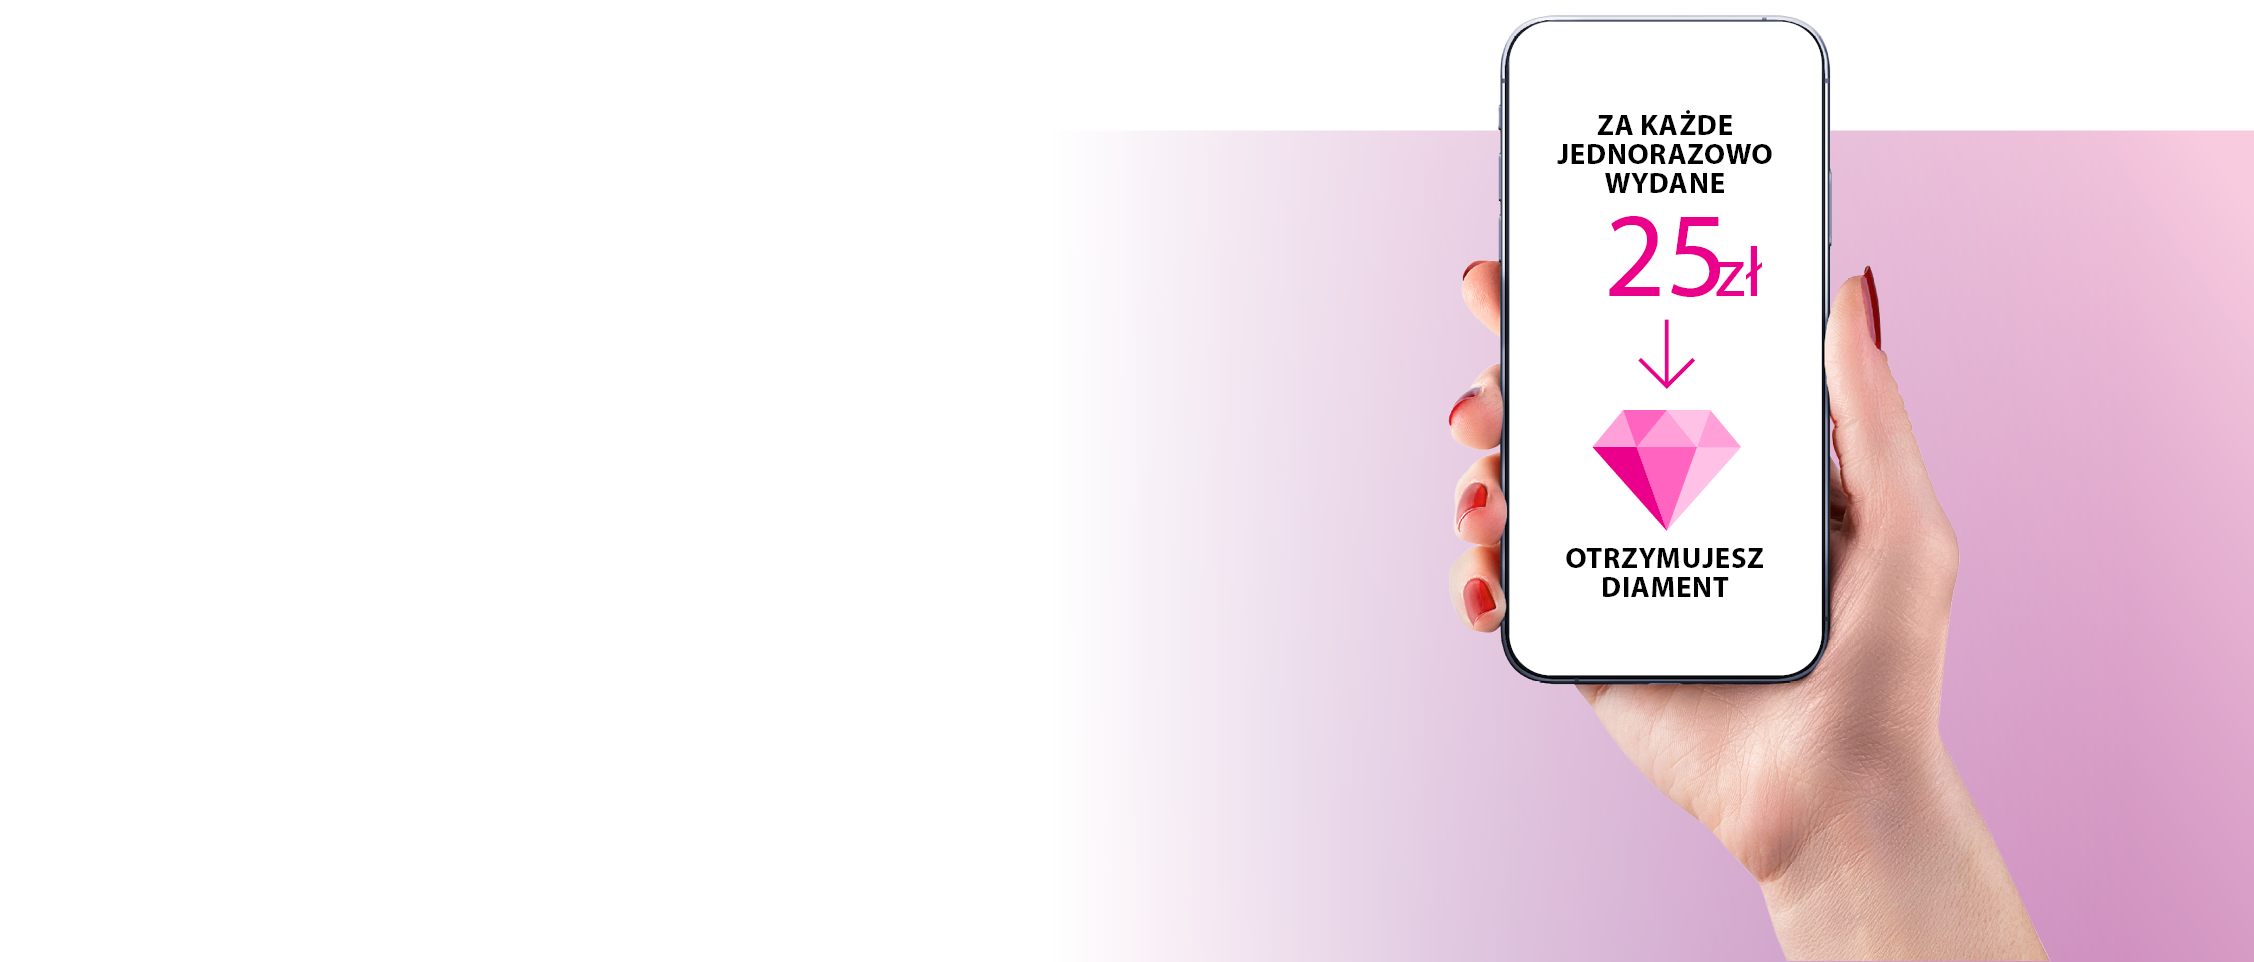
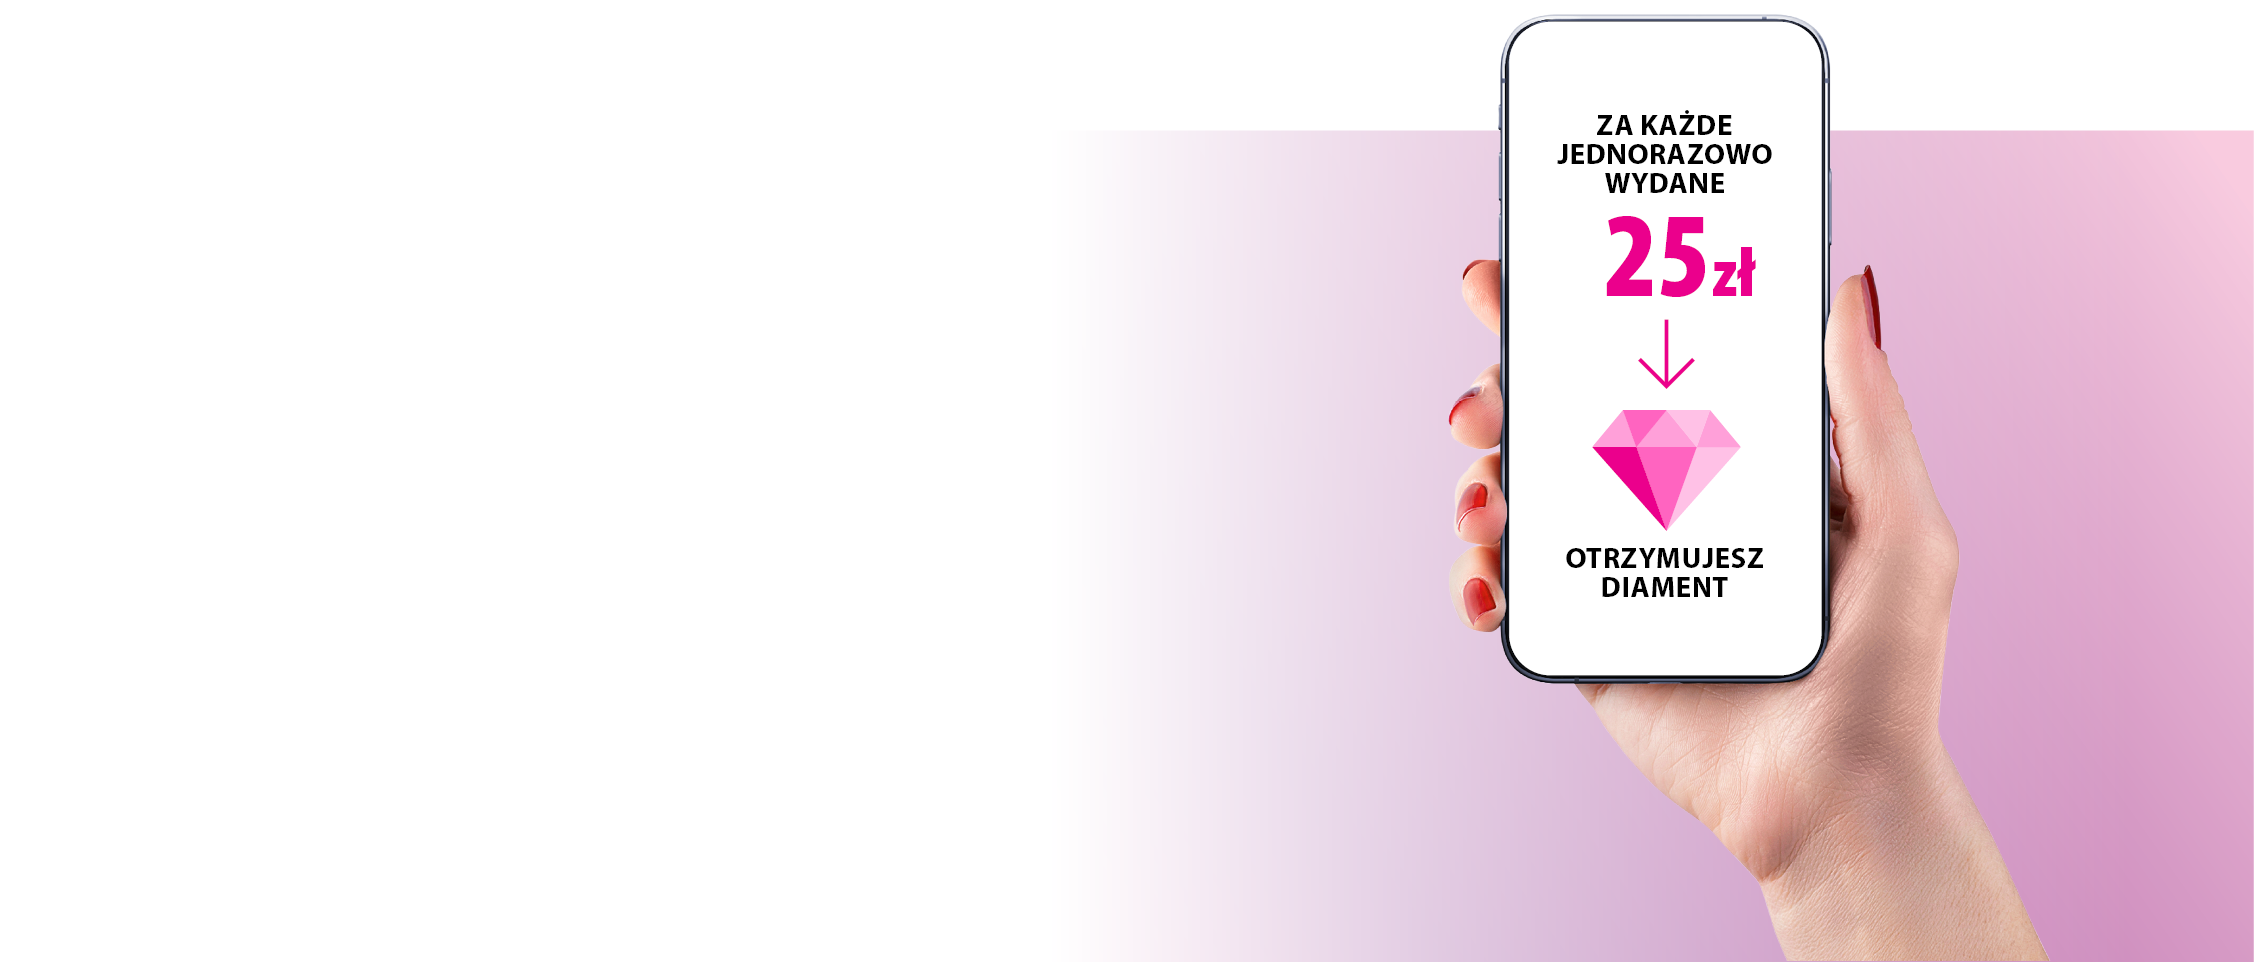
mobile buttons are lower now, alnd app buttons are linked

Changed region(s): [[0.7143, 0.2183, 0.7764, 0.3119], [0.6832, 0.6861, 0.8075, 0.7173], [0.6832, 0.0, 0.7764, 0.0312]]

diff --git a/styles.css b/styles.css
@@ -1,6 +1,8 @@
+@import url(https://use.typekit.net/aut2ygo.css);
+
+
 /* Default styles */
 
-@import url(https://use.typekit.net/izq1byo.css);
 
 :root {
     --pink: #eb008c;
@@ -881,7 +883,7 @@ ul .sixthPoint {
     .mainBox #mainButton {
         padding: 0.4em 1em;
         float: left;
-        margin-top: 84vw;
+        margin-top: 87vw;
         margin-left: 8.8vw;
     }
 
@@ -1061,7 +1063,7 @@ ul .sixthPoint {
         width: 36vw;
         background-size: 100%;
         background-repeat: no-repeat;
-        margin: 106vw 4vw 4vw 0;
+        margin: 110vw 4vw 4vw 0;
         background-color: transparent;
     }
 
@@ -1071,7 +1073,7 @@ ul .sixthPoint {
         width: 36vw;
         background-size: 100%;
         background-repeat: no-repeat;
-        margin: 106vw 4vw 4vw 0;
+        margin: 110vw 4vw 4vw 0;
         background-color: transparent;
     }
 

diff --git a/landingPage.html b/landingPage.html
@@ -77,8 +77,12 @@
     </div>
     <div class="download">
         <div class="downloadButtons">
+            <a href="https://apps.apple.com/pl/app/hebe-zdrowie-i-pi%C4%99kno/id1502417997?l=pl">
             <button id="dwn1btn"></button>
+            </a>
+            <a href="https://play.google.com/store/apps/details?id=pl.hebe.app&pli=1">
             <button id="dwn2btn"></button>
+            </a>
         </div>
     </div>
     <div class="qa">
